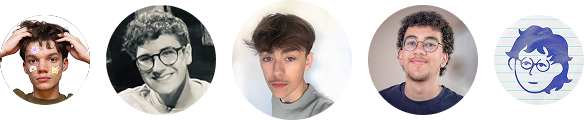
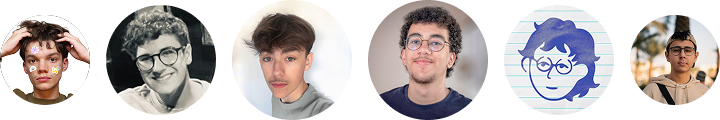
feat: adding a person and resizing a few things

diff --git a/src/components/asso/persons/persons.css b/src/components/asso/persons/persons.css
@@ -1,7 +1,7 @@
 .persons-grid {
   display: grid;
-  grid-template-columns: repeat(auto-fit, minmax(200px, 1fr));
-  gap: 2rem;
+  grid-template-columns: repeat(auto-fit, minmax(160px, 1fr));
+  gap: 1.5rem;
   margin-top: 60px;
   max-width: 1200px;
   width: 100%;
@@ -14,7 +14,7 @@
   flex-direction: column;
   align-items: center;
   text-align: center;
-  max-width: 300px;
+  max-width: 180px;
 }
 
 .person-card:hover .person-image {
@@ -25,7 +25,7 @@
 .person-image {
   border-radius: 50%;
   overflow: hidden;
-  width: 100px;
+  width: 80px;
   aspect-ratio: 1;
   box-shadow: 0 4px 6px rgba(0, 0, 0, 0.1);
   transition: transform 0.3s ease, box-shadow 0.3s ease;
@@ -45,22 +45,22 @@
 }
 
 .person-name {
-  font-size: 1.5rem;
+  font-size: 1.2rem;
   font-weight: bold;
-  margin-top: 1rem;
+  margin-top: 0.75rem;
 }
 
 .person-role {
-  font-size: 1.2rem;
+  font-size: 1rem;
   color: rgba(var(--primary-rgb), 1);
-  margin-top: 0.5rem;
+  margin-top: 0.4rem;
   font-weight: 600;
 }
 
 .person-description {
-  font-size: 1rem;
+  font-size: 0.9rem;
   color: rgba(var(--foreground-rgb), 0.7);
-  margin-top: 0.5rem;
-  padding: 0 1rem;
+  margin-top: 0.4rem;
+  padding: 0 0.5rem;
   font-weight: 500;
 }

diff --git a/src/components/asso/persons/persons.tsx b/src/components/asso/persons/persons.tsx
@@ -40,6 +40,13 @@ export default function Persons() {
       role: "Secrétaire adjoint",
       description: "Visionnaire du code et du design, il met un coup de pinceaux aux fonctionnalités.",
       image: "/people/remygdt.jpg"
+    },
+    {
+      firstname: "Mael",
+      lastname: "Duret",
+      role: "Membre",
+      description: 'Il touche à tout… surtout quand il veut "juste voir ce que ça fait".',
+      image: "/people/ryzenixx.jpg"
     }
   ];
 

diff --git a/src/components/home/why/why.tsx b/src/components/home/why/why.tsx
@@ -10,8 +10,9 @@ export default function Why() {
         <Image
           src="/people.png"
           alt=""
-          width={312}
-          height={64}
+          width={300}
+          height={0}
+          style={{ height: 'auto' }}
           className="section-illustration"
           />
         <h2 className="section-title">Pas une simple <span>application de vie scolaire</span>, mais une vision de l'éducation</h2>

diff --git a/src/components/asso/hero/hero.tsx b/src/components/asso/hero/hero.tsx
@@ -12,8 +12,9 @@ export default function Hero() {
           <Image
             src="/people.png"
             alt=""
-            width={312}
-            height={64}
+            width={350}
+            height={0}
+            style={{ height: 'auto' }}
             className="hero-people"
           />
 
